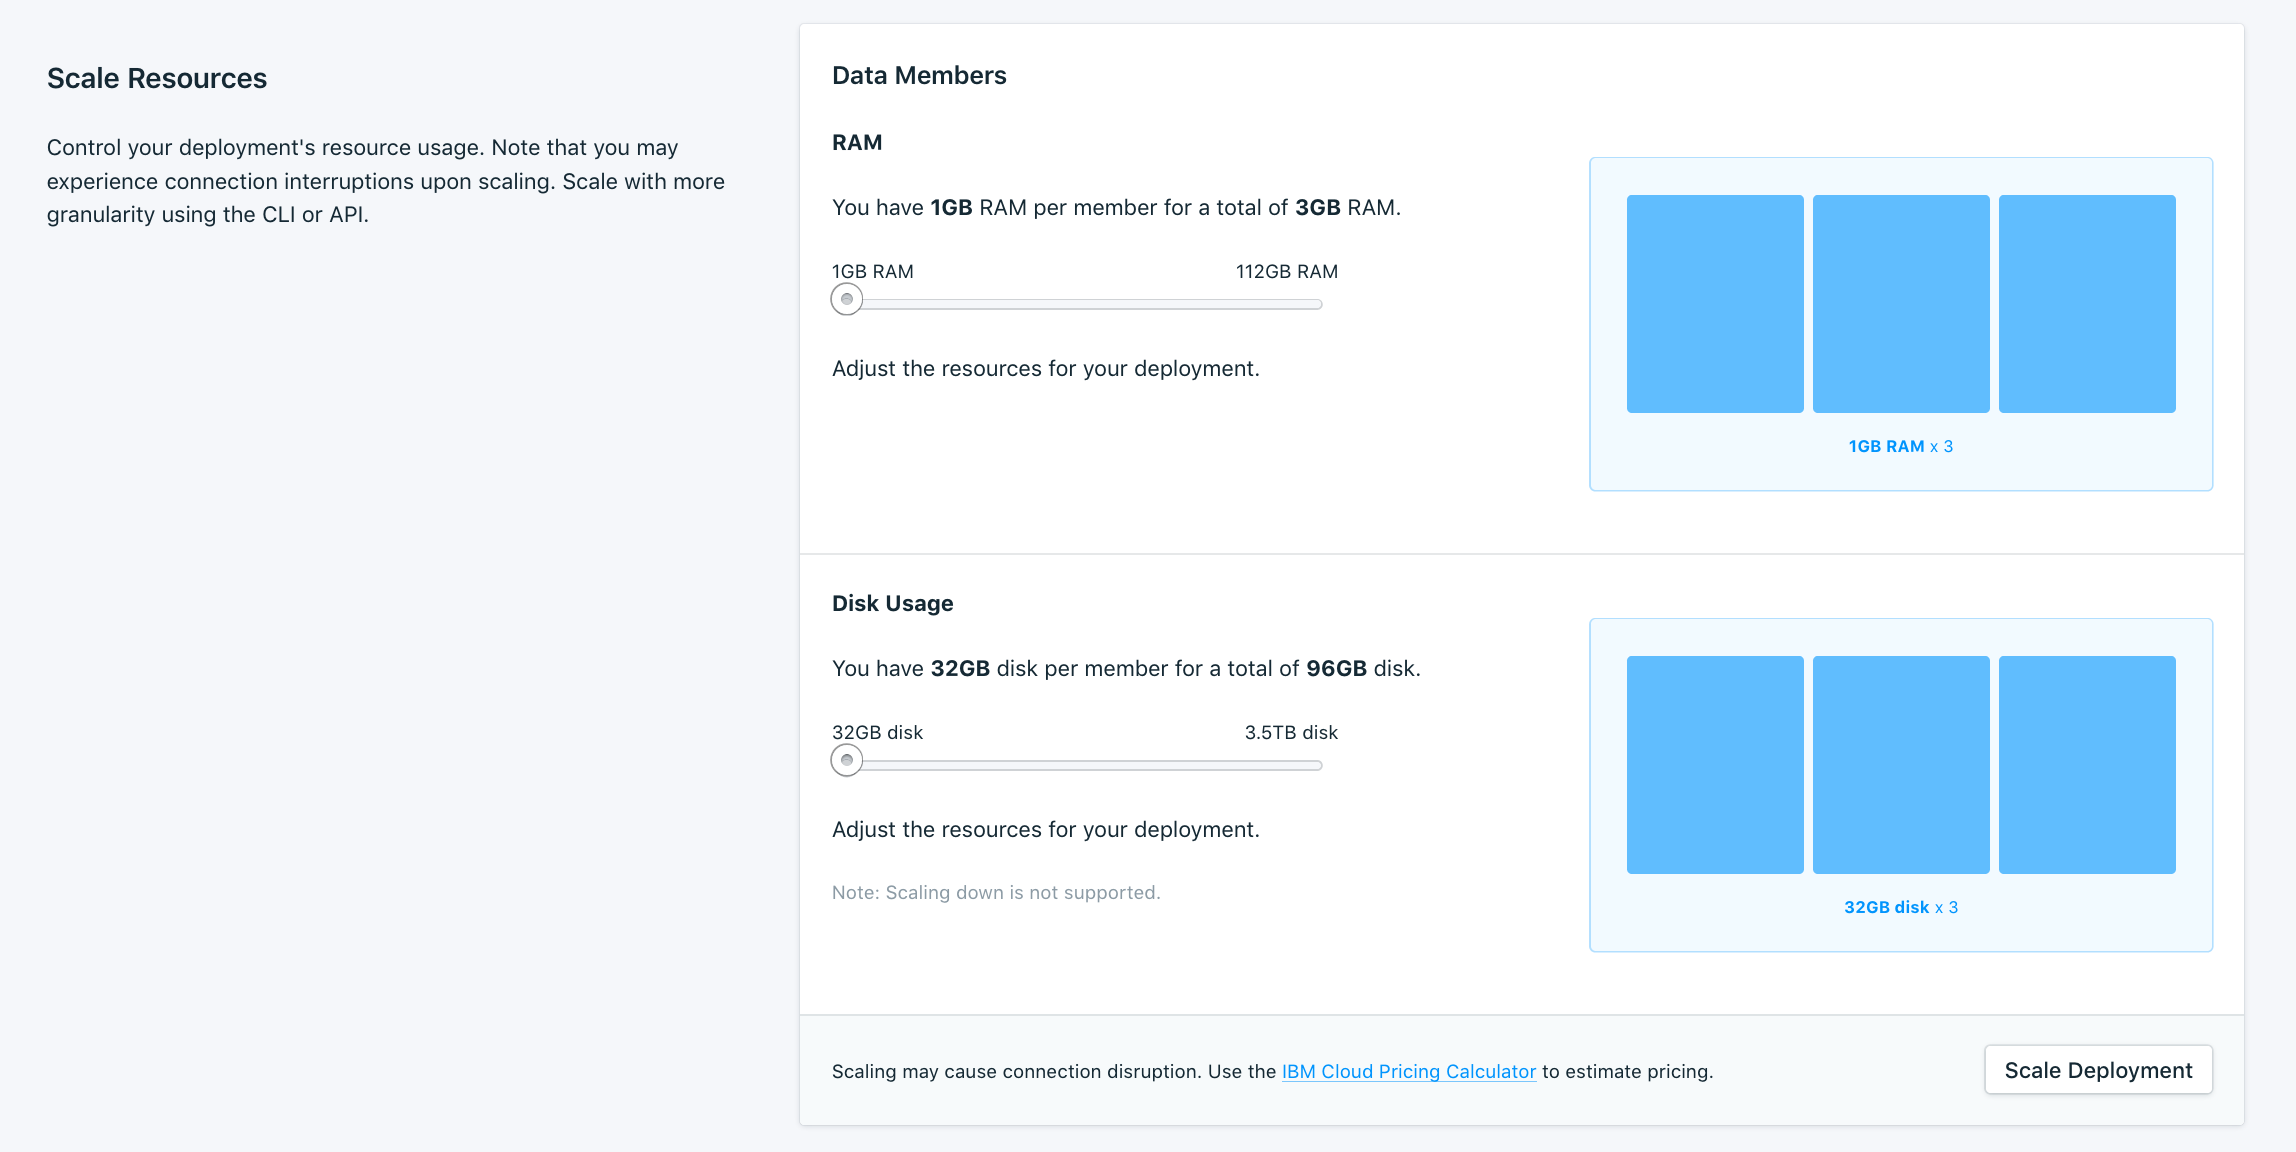
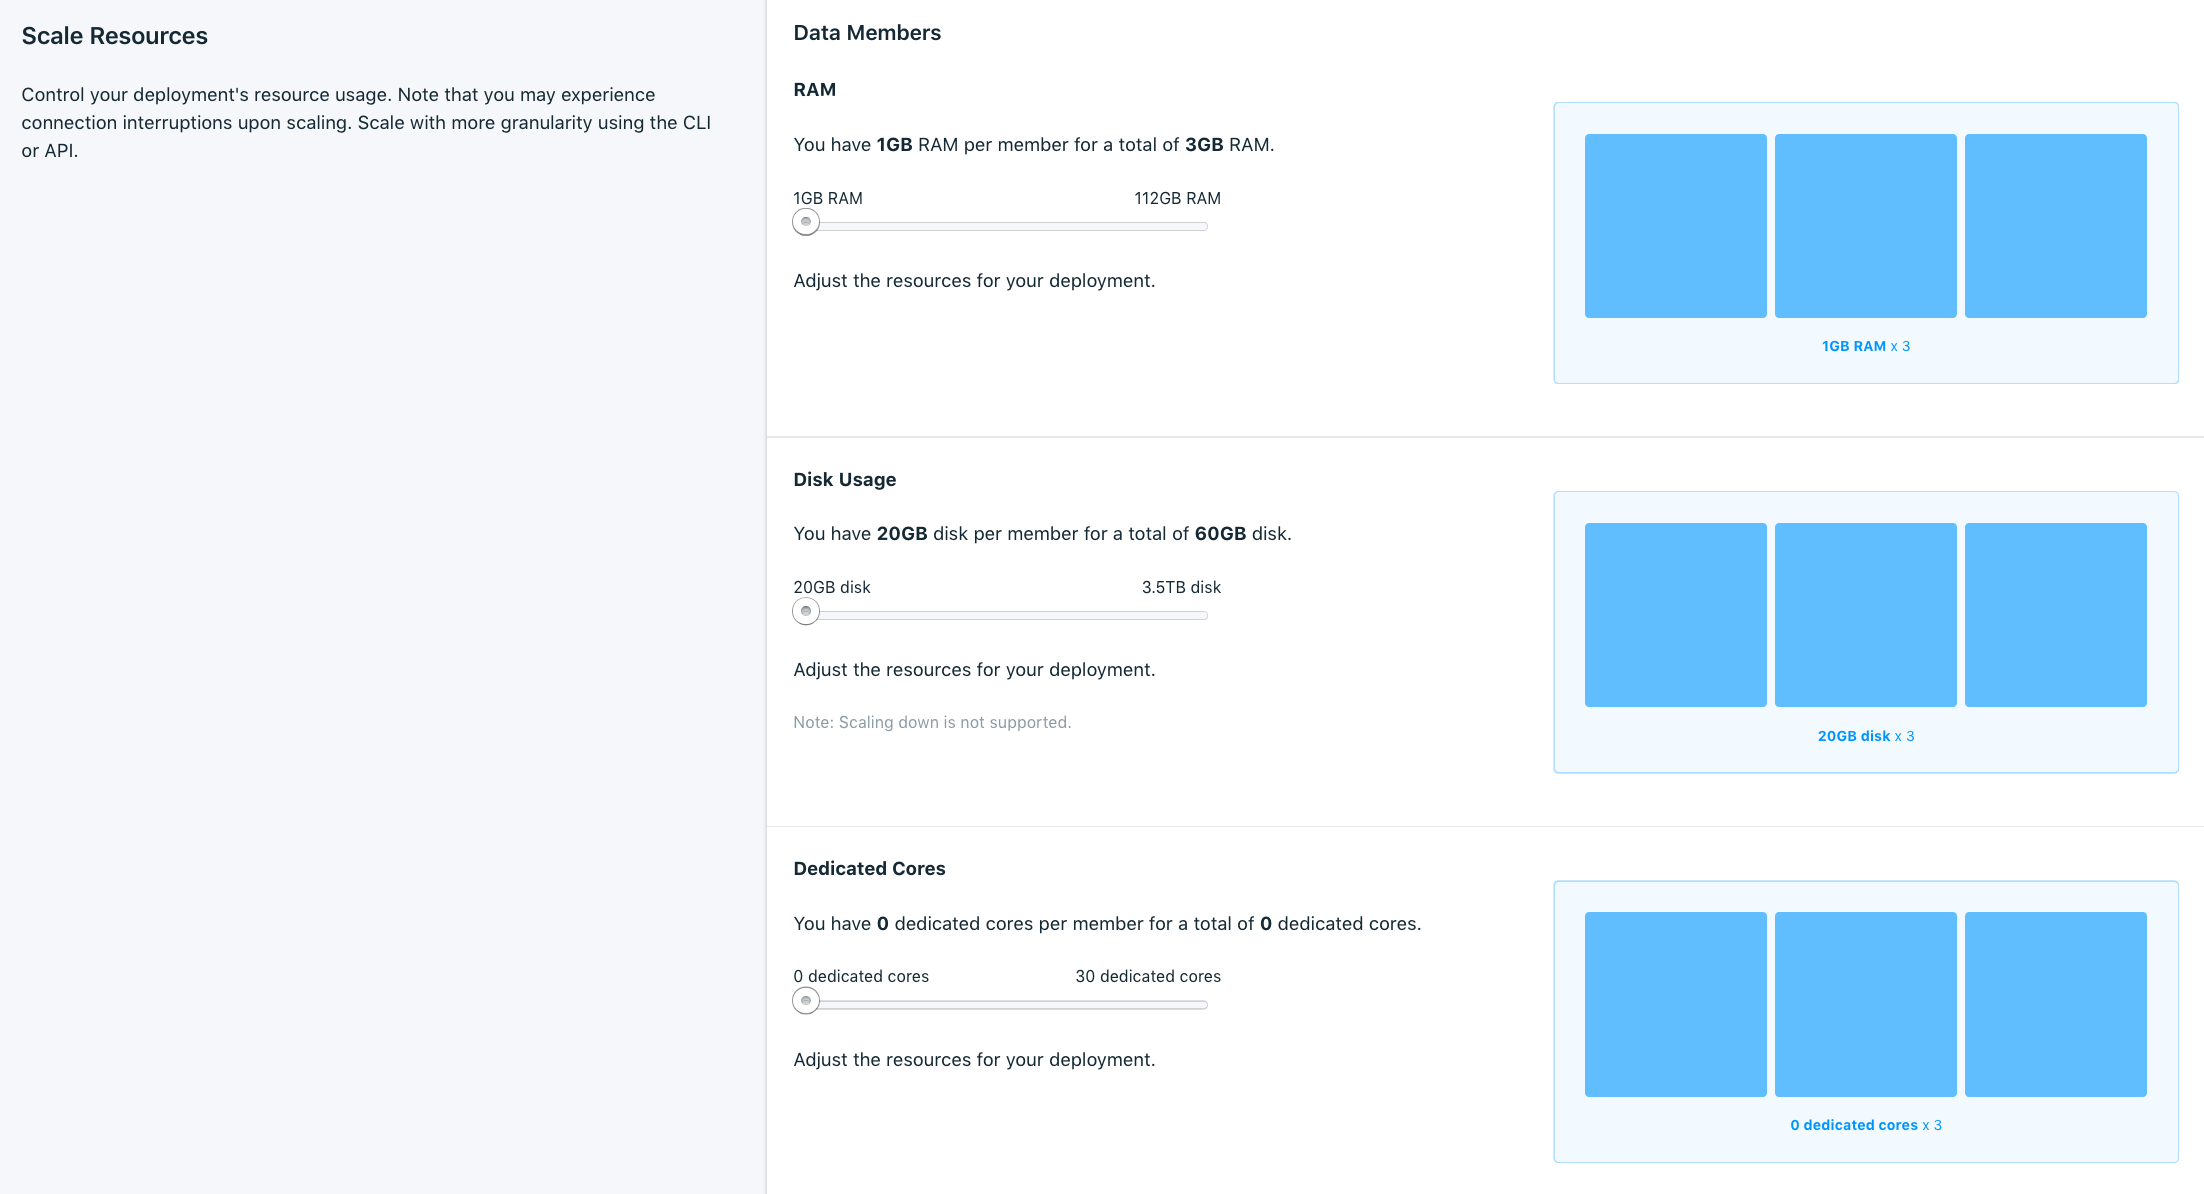
CPU Enabling/Scaling for all deployments (#23)
* initial wording for making dedicated cores more widely available

* updating scaling screenshot

* adding cli output for CPU in scaling

diff --git a/howto-resources-scaling.md b/howto-resources-scaling.md
@@ -2,7 +2,7 @@
 
 Copyright:
   years: 2019
-lastupdated: "2019-04-23"
+lastupdated: "2019-09-07"
 
 keywords: etcd, scaling
 
@@ -39,7 +39,10 @@ You cannot scale down storage. You can recover space by backing up and restoring
 If you find that your deployment suffers from performance issues due to a lack of memory, you can scale the amount of RAM allocated to your service. The amount of memory you allocate to the deployment is split between the three three members. Adding memory to the total allocation adds memory to the members equally.
 
 **Dedicated Cores** - 
-If you provisioned your deployment with dedicated cores, you can increase the CPU allocation to the deployment. This option is not available on deployments that were not provisioned with an initial CPU allocation.
+You can enable or increase the CPU allocation to the deployment. With dedicated cores, your resource group is given a single-tenant host with a guaranteed minimum reserve of cpu shares. Your deployment is then allocated the number of CPUs you specify. The default of 0 dedicated cores uses compute resources on shared hosts.
+
+A few scaling operations can be more long running than others. Enabling dedicated cores moves your deployment to its own host and can take longer than just adding more cores. Similarly, drastically increasing RAM or Disk can take longer than smaller increases to account for provisioning more underlying hardware resources.
+{: .tip}
 
 ## Scaling in the UI
 
@@ -62,6 +65,13 @@ Count   3
 |   Allocation per member   1024mb
 |   Minimum                 3072mb
 |   Step Size               384mb
+|   Adjustable              true
+|
++   CPU
+|   Allocation              0
+|   Allocation per member   0
+|   Minimum                 9
+|   Step Size               3
 |   Adjustable              true
 |
 +   Disk

diff --git a/pricing.md b/pricing.md
@@ -1,7 +1,7 @@
 ---
 copyright:
   years: 2019
-lastupdated: "2019-04-30"
+lastupdated: "2019-09-07"
 
 keywords: etcd, pricing
 
@@ -51,7 +51,7 @@ Users also receive their total disk space purchased, per database, in free backu
 
 ## Dedicated Cores Pricing
 
-When you provision, you have the option of selecting the initial CPU allocation for your deployment. With dedicated cores, your resource group is given a single-tenant host with a guaranteed minimum reserve of cpu shares. Your deployments are then allocated the number of CPUs you specify. The cost of dedicated cores is $30 per core per month, and each member gets the selected number of cores. For example, if you provision a deployment with 3 dedicated cores per member, that is a total of 9 cores, and billed at $270 per month. 
+You have the option of selecting the CPU allocation for your deployment. With dedicated cores, your resource group is given a single-tenant host with a guaranteed minimum reserve of cpu shares. Your deployments are then allocated the number of CPUs you specify. The cost of dedicated cores is $30 per core per month, and each member gets the selected number of cores. For example, if you provision a deployment with 3 dedicated cores per member, that is a total of 9 cores, and billed at $270 per month. 
 
 Dedicated cores are an optional feature. The default `Shared CPU` setting provisions your deployment on hosts with shared compute resources and incurs no additional charge.
 
